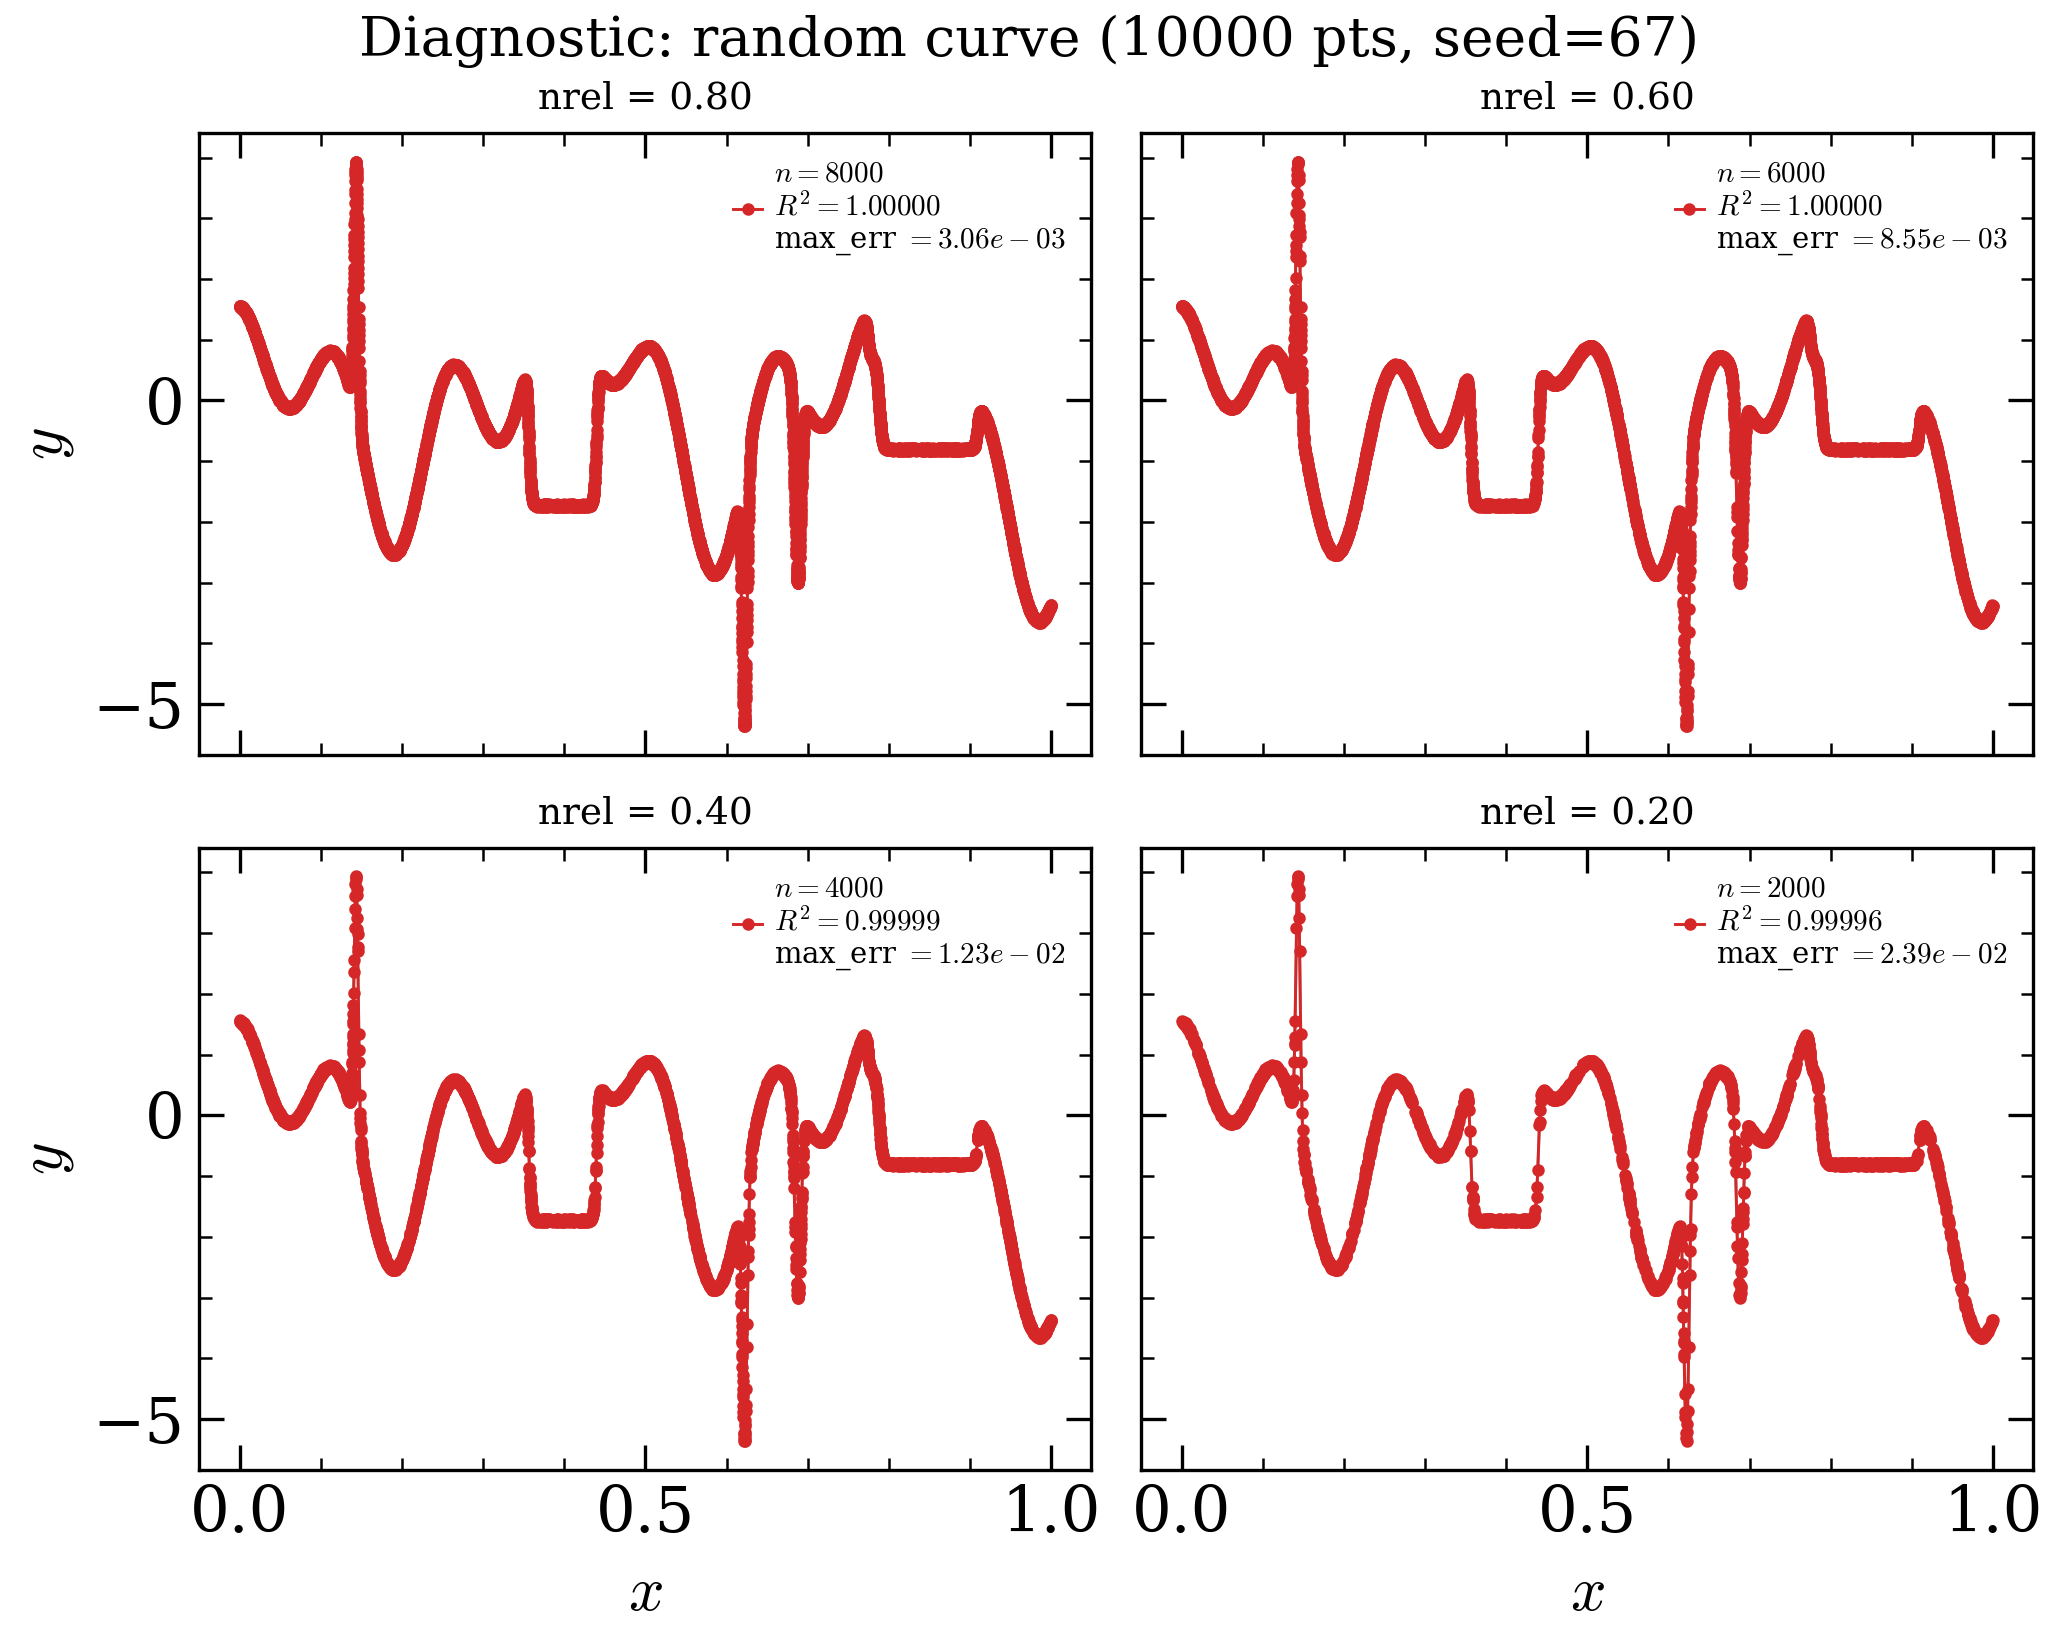
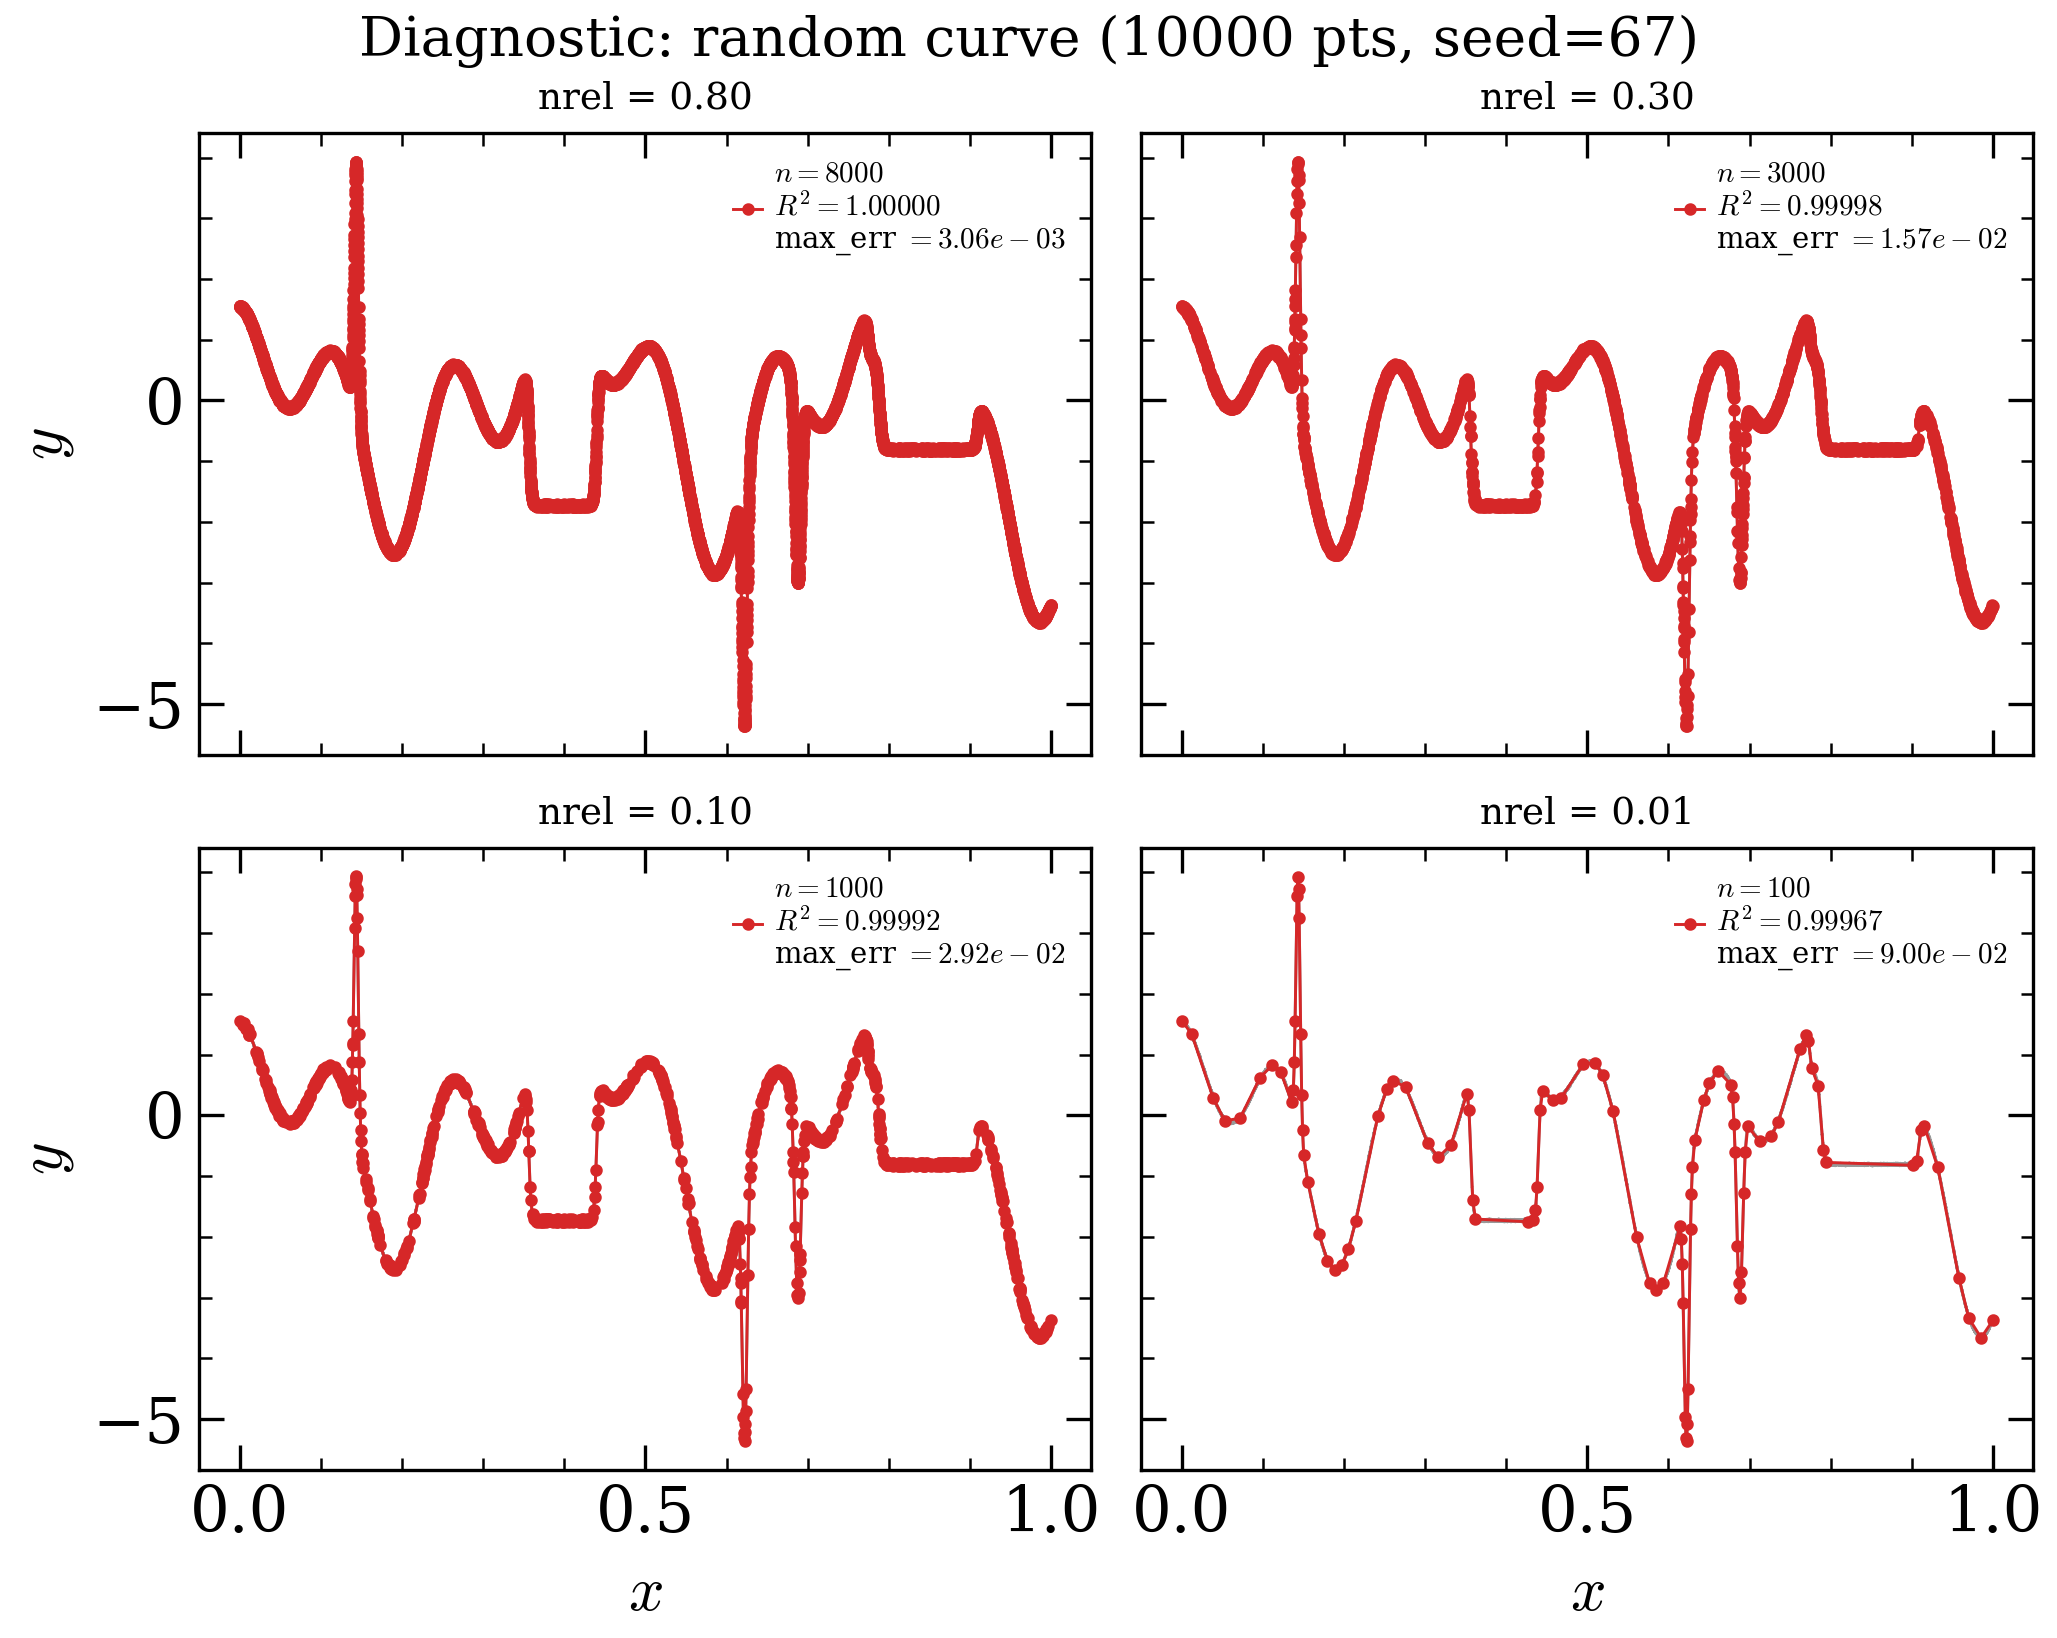
Change default diagnostic nrels to 0.8/0.3/0.1/0.01
Widen the default sweep so it spans 1.2x to 100x compression, giving a
more illustrative budget-vs-accuracy spread. Update the function/CLI
defaults, docs, and the README table/narrative/figure.

https://claude.ai/code/session_01G5aMYsok1f6w3LkkxdQ5gs

diff --git a/simplify.py b/simplify.py
@@ -1266,7 +1266,7 @@ def _importance_order(
 def _simplify_diagnostic(
     x_orig: Union[np.ndarray, Sequence[float]],
     y_orig: Union[np.ndarray, Sequence[float]],
-    nrels: Sequence[float] = (0.8, 0.6, 0.4, 0.2),
+    nrels: Sequence[float] = (0.8, 0.3, 0.1, 0.01),
     log_y: Union[bool, str] = "auto",
     title: str = "Simplification diagnostic",
     plot: bool = False,
@@ -1301,7 +1301,7 @@ def _simplify_diagnostic(
         Original (full-resolution) curve.
     nrels : sequence of float, optional
         Target relative output sizes in ``(0, 1]``.  Default
-        ``(0.8, 0.6, 0.4, 0.2)``.  The achieved point count equals
+        ``(0.8, 0.3, 0.1, 0.01)``.  The achieved point count equals
         ``round(nrel * n_original)`` exactly (clamped to ``[2, n_orig]``).
     log_y : bool or "auto", optional
         Selects the y-space the ranking and the reported metrics use.
@@ -2038,7 +2038,7 @@ def _simplify_cli():
         of the normal conversion (no output file is written).
     --nrels : str
         Comma-separated target relative sizes (n_out/n_orig) for
-        --diagnostic.  Default ``0.8,0.6,0.4,0.2``.
+        --diagnostic.  Default ``0.8,0.3,0.1,0.01``.
     --plot : flag
         Show an interactive before/after comparison plot with residuals.
     --plot-save : str
@@ -2134,7 +2134,7 @@ def _simplify_cli():
         default=None,
         metavar="LIST",
         help="Comma-separated target relative sizes (n_out/n_orig) for "
-             "--diagnostic, e.g. '0.8,0.6,0.4,0.2' (the default).",
+             "--diagnostic, e.g. '0.8,0.3,0.1,0.01' (the default).",
     )
     parser.add_argument(
         "--plot",
@@ -2314,7 +2314,7 @@ def _simplify_cli():
                     f"--nrels values must lie in (0, 1]; got {args.nrels!r}"
                 )
         else:
-            nrels = (0.8, 0.6, 0.4, 0.2)
+            nrels = (0.8, 0.3, 0.1, 0.01)
         _simplify_diagnostic(
             x, y, nrels=nrels, log_y=log_y_arg,
             title=f"Diagnostic: {source_label}",

diff --git a/README.md b/README.md
@@ -161,19 +161,20 @@ python simplify.py --random --seed 67 --diagnostic
    nrel    n_out   compression      max_err        R^2
   --------------------------------------------------------
    0.80     8000          1.2x    3.056e-03   1.000000
-   0.60     6000          1.7x    8.548e-03   0.999997
-   0.40     4000          2.5x    1.232e-02   0.999987
-   0.20     2000          5.0x    2.392e-02   0.999957
+   0.30     3000          3.3x    1.573e-02   0.999976
+   0.10     1000         10.0x    2.921e-02   0.999922
+   0.01      100        100.0x    8.997e-02   0.999665
   --------------------------------------------------------
   max_err = worst-case |error| in linear-y space (pass as --max-err).
 ```
 
-Read it as a budget-vs-accuracy curve: even at `nrel = 0.2` (a 5×
-compression) the worst-case error is only 0.024 and R² is already 0.99996,
-and every extra slice of budget shaves the worst case down further (0.012
-at 40 %, 0.003 at 80 %). The `max_err` column is the direct guide to
-`--max-err`: if you can live with a ~0.024 worst-case error, `nrel = 0.2`
-is plenty; if you need 0.003, you'll want closer to `nrel = 0.8`.
+Read it as a budget-vs-accuracy curve: even at `nrel = 0.01` (100 points, a
+100× compression) R² is still 0.9997 and the worst-case error is 0.09, and
+every extra slice of budget shaves the worst case down further (0.029 at
+10 %, 0.016 at 30 %, 0.003 at 80 %). The `max_err` column is the direct
+guide to `--max-err`: if you can live with a ~0.03 worst-case error,
+`nrel = 0.1` (a 10× compression) is plenty; if you need 0.003, you'll want
+closer to `nrel = 0.8`.
 
 The reported `max_err` and `R^2` are always in the y-space the pipeline
 optimised — **dex when `log_y` is active**, linear otherwise — so the